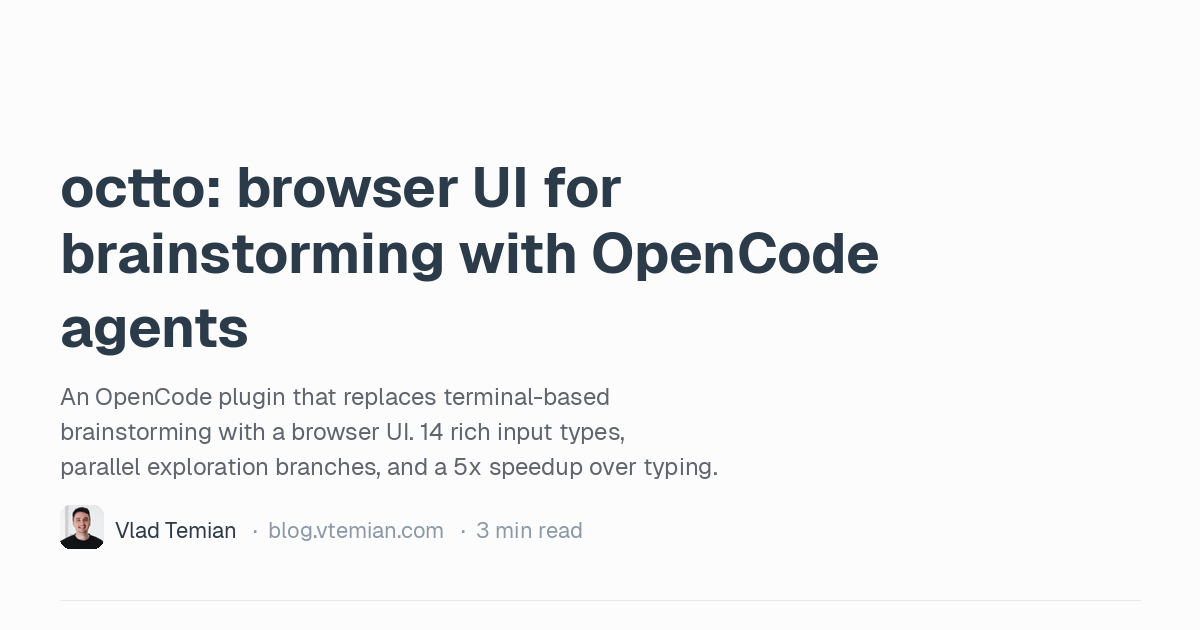
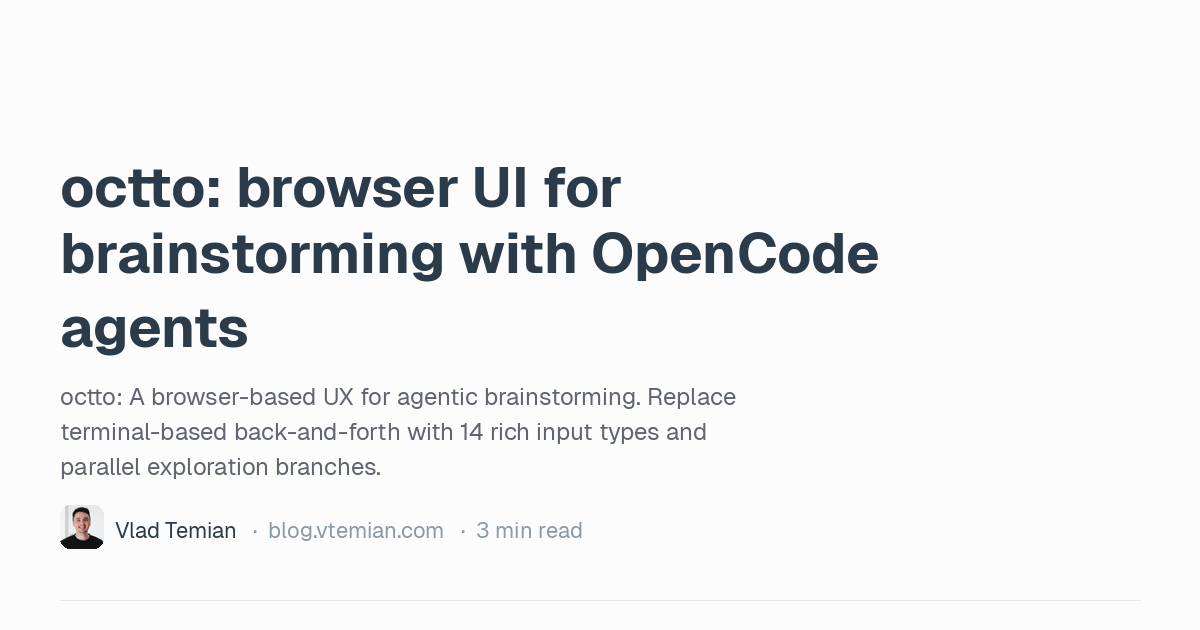
deploy: 51484bfcf742be81ee3e31f9625386bb4fda7fc4

Changed region(s): [[0.0308, 0.6032, 0.6167, 0.754]]

diff --git a/project/octto/index.html b/project/octto/index.html
@@ -1,6 +1,6 @@
-<!doctype html><html lang=en><head><script>localStorage.getItem("theme")==="dark"&&document.documentElement.classList.add("dark")</script><meta http-equiv=X-UA-Compatible content="IE=edge"><meta name=viewport content="width=device-width,minimum-scale=1"><link rel=preconnect href=https://cdn.jsdelivr.net crossorigin><link rel=stylesheet href=https://cdn.jsdelivr.net/npm/geist@1/dist/fonts/geist-sans/style.css><link rel=stylesheet href=https://cdn.jsdelivr.net/npm/geist@1/dist/fonts/geist-mono/style.css><link rel=stylesheet href=//cdnjs.cloudflare.com/ajax/libs/highlight.js/11.9.0/styles/nord.min.css><script src=//cdnjs.cloudflare.com/ajax/libs/highlight.js/11.9.0/highlight.min.js></script><script>hljs.highlightAll()</script><meta charset=utf-8><meta name=robots content="index,follow"><link rel=canonical href=https://blog.vtemian.com/project/octto/><link rel=icon type=image/svg+xml href=https://blog.vtemian.com/favicon.svg><link rel=apple-touch-icon href=https://blog.vtemian.com/favicon.svg><meta name=keywords content="octto,opencode,agentic programming,ai tools,developer tools,brainstorming,ui"><meta name=description content="An OpenCode plugin that replaces terminal-based brainstorming with a browser UI. 14 rich input types, parallel exploration branches, and a 5x speedup over typing."><meta property="og:url" content="https://blog.vtemian.com/project/octto/"><meta property="og:site_name" content="Vlad Temian - Centrist Tech Optimist"><meta property="og:title" content="octto: browser UI for brainstorming with OpenCode agents"><meta property="og:description" content="An OpenCode plugin that replaces terminal-based brainstorming with a browser UI. 14 rich input types, parallel exploration branches, and a 5x speedup over typing."><meta property="og:locale" content="en_US"><meta property="og:type" content="article"><meta property="article:published_time" content="2026-01-02T00:00:00+03:00"><meta property="article:modified_time" content="2026-01-02T00:00:00+03:00"><meta property="article:tag" content="Ai"><meta property="article:tag" content="Tools"><meta property="article:tag" content="Open-Source"><meta property="og:image" content="https://blog.vtemian.com/project/octto/og.png"><meta name=twitter:card content="summary_large_image"><meta name=twitter:title content="octto: browser UI for brainstorming with OpenCode agents"><meta name=twitter:description content="An OpenCode plugin that replaces terminal-based brainstorming with a browser UI. 14 rich input types, parallel exploration branches, and a 5x speedup over typing."><meta name=twitter:image content="https://blog.vtemian.com/project/octto/og.png"><script type=application/ld+json>{"@context":"https://schema.org","@type":"BlogPosting","mainEntityOfPage":{"@type":"WebPage","@id":"https:\/\/blog.vtemian.com\/project\/octto\/"},"headline":"octto: browser UI for brainstorming with OpenCode agents","description":"An OpenCode plugin that replaces terminal-based brainstorming with a browser UI. 14 rich input types, parallel exploration branches, and a 5x speedup over typing.","inLanguage":"en-US","author":{"@type":"Person","name":"Vlad Temian","url":"https:\/\/blog.vtemian.com\/","sameAs":["https://github.com/vtemian","https://linkedin.com/in/vtemian","https://x.com/vtemian"]},"publisher":{"@type":"Person","name":"Vlad Temian"},"datePublished":"2026-01-02T00:00:00\u002b03:00","dateModified":"2026-01-02T00:00:00\u002b03:00","url":"https:\/\/blog.vtemian.com\/project\/octto\/","wordCount":374,"timeRequired":"PT2M","keywords":["ai","tools","open-source"]}</script><script type=application/ld+json>{"@context":"https://schema.org","@type":"BreadcrumbList","itemListElement":[{"@type":"ListItem","position":1,"name":"Home","item":"https:\/\/blog.vtemian.com\/"},{"@type":"ListItem","position":2,"name":"Project","item":"https:\/\/blog.vtemian.com\/project/"},{"@type":"ListItem","position":3,"name":"octto: browser UI for brainstorming with OpenCode agents","item":"https:\/\/blog.vtemian.com\/project\/octto\/"}]}</script><title>octto: browser UI for brainstorming with OpenCode agents | Vlad Temian - Centrist Tech Optimist</title>
+<!doctype html><html lang=en><head><script>localStorage.getItem("theme")==="dark"&&document.documentElement.classList.add("dark")</script><meta http-equiv=X-UA-Compatible content="IE=edge"><meta name=viewport content="width=device-width,minimum-scale=1"><link rel=preconnect href=https://cdn.jsdelivr.net crossorigin><link rel=stylesheet href=https://cdn.jsdelivr.net/npm/geist@1/dist/fonts/geist-sans/style.css><link rel=stylesheet href=https://cdn.jsdelivr.net/npm/geist@1/dist/fonts/geist-mono/style.css><link rel=stylesheet href=//cdnjs.cloudflare.com/ajax/libs/highlight.js/11.9.0/styles/nord.min.css><script src=//cdnjs.cloudflare.com/ajax/libs/highlight.js/11.9.0/highlight.min.js></script><script>hljs.highlightAll()</script><meta charset=utf-8><meta name=robots content="index,follow"><link rel=canonical href=https://blog.vtemian.com/project/octto/><link rel=icon type=image/svg+xml href=https://blog.vtemian.com/favicon.svg><link rel=apple-touch-icon href=https://blog.vtemian.com/favicon.svg><meta name=keywords content="octto,opencode,agentic programming,ai ux,structured brainstorming,llm interface,human-in-the-loop,developer tools,ai gui"><meta name=description content="octto: A browser-based UX for agentic brainstorming. Replace terminal-based back-and-forth with 14 rich input types and parallel exploration branches."><meta property="og:url" content="https://blog.vtemian.com/project/octto/"><meta property="og:site_name" content="Vlad Temian - Centrist Tech Optimist"><meta property="og:title" content="octto: browser UI for brainstorming with OpenCode agents"><meta property="og:description" content="octto: A browser-based UX for agentic brainstorming. Replace terminal-based back-and-forth with 14 rich input types and parallel exploration branches."><meta property="og:locale" content="en_US"><meta property="og:type" content="article"><meta property="article:published_time" content="2026-01-02T00:00:00+03:00"><meta property="article:modified_time" content="2026-01-02T00:00:00+03:00"><meta property="article:tag" content="Ai"><meta property="article:tag" content="Tools"><meta property="article:tag" content="Open-Source"><meta property="article:tag" content="Agentic-Programming"><meta property="article:tag" content="Ux"><meta property="og:image" content="https://blog.vtemian.com/project/octto/og.png"><meta name=twitter:card content="summary_large_image"><meta name=twitter:title content="octto: browser UI for brainstorming with OpenCode agents"><meta name=twitter:description content="octto: A browser-based UX for agentic brainstorming. Replace terminal-based back-and-forth with 14 rich input types and parallel exploration branches."><meta name=twitter:image content="https://blog.vtemian.com/project/octto/og.png"><script type=application/ld+json>{"@context":"https://schema.org","@type":"BlogPosting","mainEntityOfPage":{"@type":"WebPage","@id":"https:\/\/blog.vtemian.com\/project\/octto\/"},"headline":"octto: browser UI for brainstorming with OpenCode agents","description":"octto: A browser-based UX for agentic brainstorming. Replace terminal-based back-and-forth with 14 rich input types and parallel exploration branches.","inLanguage":"en-US","author":{"@type":"Person","name":"Vlad Temian","url":"https:\/\/blog.vtemian.com\/","sameAs":["https://github.com/vtemian","https://linkedin.com/in/vtemian","https://x.com/vtemian"]},"publisher":{"@type":"Person","name":"Vlad Temian"},"datePublished":"2026-01-02T00:00:00\u002b03:00","dateModified":"2026-01-02T00:00:00\u002b03:00","url":"https:\/\/blog.vtemian.com\/project\/octto\/","wordCount":452,"timeRequired":"PT2M","keywords":["ai","tools","open-source","agentic-programming","ux"]}</script><script type=application/ld+json>{"@context":"https://schema.org","@type":"BreadcrumbList","itemListElement":[{"@type":"ListItem","position":1,"name":"Home","item":"https:\/\/blog.vtemian.com\/"},{"@type":"ListItem","position":2,"name":"Project","item":"https:\/\/blog.vtemian.com\/project/"},{"@type":"ListItem","position":3,"name":"octto: browser UI for brainstorming with OpenCode agents","item":"https:\/\/blog.vtemian.com\/project\/octto\/"}]}</script><title>octto: browser UI for brainstorming with OpenCode agents | Vlad Temian - Centrist Tech Optimist</title>
 <link rel=stylesheet href=https://blog.vtemian.com/stylesheets/main.min.a3dd6e53cb8317669f7120e254ee74bc7ddd98748ed802cc4adc882876a27160.css media=screen><meta name=google-site-verification content="2qk_e0y84NNSVpaorKgeNURYF9Ni3UyJvPq9GZdGEgs"></head><body class="bg-bg font-sans text-sm leading-relaxed text-ink antialiased"><div class="mx-auto flex max-w-2xl flex-col gap-12 px-5 py-12"><a href=https://blog.vtemian.com/ class="font-mono text-xs tracking-wide text-muted">Back</a><article class="flex flex-col gap-12"><header class="flex flex-col gap-2"><h1 class=text-2xl>octto: browser UI for brainstorming with OpenCode agents</h1><p class="text-xs text-link">January 2026</p></header><div class="flex flex-col gap-4"><video autoplay loop muted playsinline width=100% style=margin-bottom:2rem>
-<source src=demo.mp4 type=video/mp4></video><p>Brainstorming with AI agents in a terminal is slow and painful. You type a paragraph, the agent asks a question, you type another paragraph, it asks another question. Ten minutes of back-and-forth just to agree on an approach. Most of that time is spent typing things that could have been a single click.</p><p><strong><a href=https://github.com/vtemian/octto>octto</a></strong> opens a browser window instead.</p><h2 id=stop-typing-start-clicking>Stop Typing, Start Clicking</h2><p>When you describe an idea to the agent, octto opens a browser UI that presents structured, visual questions. Instead of typing &ldquo;I think option B is better because&mldr;&rdquo;, you click a radio button. Instead of describing priority order in prose, you drag items into a ranked list. Instead of explaining a code preference, you review a side-by-side diff and click approve.</p><p>14 input types replace free-form text: radio buttons, checkboxes, sliders, drag-to-rank, star ratings, thumbs up/down, option cards with pros and cons, side-by-side code diffs, syntax-highlighted code editors, text fields, image uploads, and file pickers.</p><h2 id=parallel-exploration>Parallel Exploration</h2><p>The real speedup comes from parallel branching. Instead of exploring one question at a time, octto splits your request into 2-4 exploration branches. All initial questions appear at once. You answer them in any order. Some branches finish in 2 questions, others need 4. It&rsquo;s a tree-structured exploration, not a linear conversation.</p><p>Follow-up questions appear dynamically as you answer. A progress indicator shows remaining questions. Completed answers stay visible for context.</p><h2 id=three-agent-architecture>Three-Agent Architecture</h2><p>Three specialized agents orchestrate each session:</p><table><thead><tr><th>Agent</th><th>Role</th></tr></thead><tbody><tr><td><strong>bootstrapper</strong></td><td>Splits your request into 2-4 exploration branches</td></tr><tr><td><strong>probe</strong></td><td>Evaluates each branch after you answer: needs more questions, or done?</td></tr><tr><td><strong>octto</strong></td><td>Orchestrates the overall session lifecycle</td></tr></tbody></table><p>The bootstrapper decomposes. The probe adapts. The octto agent manages the whole thing. Once all branches converge, a final plan is rendered for review, approval, and saved to <code>docs/plans/</code> in your project.</p><h2 id=configuration>Configuration</h2><p>Simple setup: one line in your OpenCode config. You can customize the port, agent models, and inject project-specific instructions via &ldquo;fragments&rdquo;. Fragments can be global or per-project, so you can tell the brainstorming agents &ldquo;this project uses React, focus on component patterns&rdquo; without repeating it every session.</p><p><strong><a href=https://github.com/vtemian/octto>Source on GitHub</a></strong></p><p>octto handles the brainstorming phase. For the full structured workflow — brainstorm, plan, and parallel implementation with review — see <a href=https://blog.vtemian.com/project/micode/>micode</a>.</p><p>Stay curious ☕</p></div></article><footer class="flex justify-between text-xs text-link"><span>&copy; 2026 <a href=https://github.com/vtemian>Vlad Temian</a></span>
+<source src=demo.mp4 type=video/mp4></video><p>Brainstorming with AI agents in a terminal is slow and painful. You type a paragraph, the agent asks a question, you type another paragraph&mldr; it&rsquo;s a 10-minute back-and-forth just to agree on an approach. Most of that time is spent in &ldquo;prose-churn&rdquo;—typing things that should have been a single click.</p><p><strong><a href=https://github.com/vtemian/octto>octto</a></strong> turns those 10 minutes of typing into 2 minutes of clicking.</p><h2 id=agentic-ui-why-chat-is-a-bottleneck>Agentic UI: Why Chat is a Bottleneck</h2><p>We&rsquo;ve been conditioned to think &ldquo;AI = Chatbox,&rdquo; but prose is one of the most inefficient interfaces for structured decision-making. Chat is linear, ambiguous, and requires constant re-typing.</p><p>I built <strong>octto</strong> on a different philosophy: <strong>Agentic UI</strong>. The agent shouldn&rsquo;t just talk to you; it should present you with the most efficient interface for the task at hand.</p><ul><li><strong>Beyond Prose</strong>: Instead of &ldquo;Option B is better because&mldr;&rdquo;, just click a button.</li><li><strong>Parallel Exploration</strong>: Chat is serial. octto is tree-structured. It splits your request into 2-4 branches simultaneously.</li><li><strong>Visual Synthesis</strong>: Side-by-side diffs, drag-and-drop rankings, and rich sliders replace descriptive text.</li></ul><h2 id=14-rich-input-types>14 Rich Input Types</h2><p>octto replaces free-form text with a library of 14 structured inputs designed for fast &ldquo;Human-in-the-Loop&rdquo; decisions:</p><ul><li><strong>Decision Controls</strong>: Radio buttons, checkboxes, and thumbs up/down for rapid approval.</li><li><strong>Structured Ranking</strong>: Drag items into a ranked list to set priorities.</li><li><strong>Code Review</strong>: Side-by-side diffs and syntax-highlighted editors.</li><li><strong>Rich Media</strong>: Image uploads and file pickers for direct context.</li><li><strong>Dynamic Pros/Cons</strong>: Option cards that summarize trade-offs visually.</li></ul><p>&mldr;</p><h2 id=parallel-exploration>Parallel Exploration</h2><p>The real speedup comes from parallel branching. Instead of exploring one question at a time, octto splits your request into 2-4 exploration branches. All initial questions appear at once. You answer them in any order. Some branches finish in 2 questions, others need 4. It&rsquo;s a tree-structured exploration, not a linear conversation.</p><p>Follow-up questions appear dynamically as you answer. A progress indicator shows remaining questions. Completed answers stay visible for context.</p><h2 id=three-agent-architecture>Three-Agent Architecture</h2><p>Three specialized agents orchestrate each session:</p><table><thead><tr><th>Agent</th><th>Role</th></tr></thead><tbody><tr><td><strong>bootstrapper</strong></td><td>Splits your request into 2-4 exploration branches</td></tr><tr><td><strong>probe</strong></td><td>Evaluates each branch after you answer: needs more questions, or done?</td></tr><tr><td><strong>octto</strong></td><td>Orchestrates the overall session lifecycle</td></tr></tbody></table><p>The bootstrapper decomposes. The probe adapts. The octto agent manages the whole thing. Once all branches converge, a final plan is rendered for review, approval, and saved to <code>docs/plans/</code> in your project.</p><h2 id=configuration>Configuration</h2><p>Simple setup: one line in your OpenCode config. You can customize the port, agent models, and inject project-specific instructions via &ldquo;fragments&rdquo;. Fragments can be global or per-project, so you can tell the brainstorming agents &ldquo;this project uses React, focus on component patterns&rdquo; without repeating it every session.</p><p><strong><a href=https://github.com/vtemian/octto>Source on GitHub</a></strong></p><p>octto handles the brainstorming phase. For the full structured workflow — brainstorm, plan, and parallel implementation with review — see <a href=https://blog.vtemian.com/project/micode/>micode</a>.</p><p>Stay curious ☕</p></div></article><footer class="flex justify-between text-xs text-link"><span>&copy; 2026 <a href=https://github.com/vtemian>Vlad Temian</a></span>
 <span>Order within chaos.</span></footer></div><script type=module>
     import mermaid from 'https://cdn.jsdelivr.net/npm/mermaid@11/dist/mermaid.esm.min.mjs';
     mermaid.initialize({ startOnLoad: false, theme: 'neutral' });

diff --git a/tags/ux/index.html b/tags/ux/index.html
@@ -1,0 +1,25 @@
+<!doctype html><html lang=en><head><script>localStorage.getItem("theme")==="dark"&&document.documentElement.classList.add("dark")</script><meta http-equiv=X-UA-Compatible content="IE=edge"><meta name=viewport content="width=device-width,minimum-scale=1"><link rel=preconnect href=https://cdn.jsdelivr.net crossorigin><link rel=stylesheet href=https://cdn.jsdelivr.net/npm/geist@1/dist/fonts/geist-sans/style.css><link rel=stylesheet href=https://cdn.jsdelivr.net/npm/geist@1/dist/fonts/geist-mono/style.css><link rel=stylesheet href=//cdnjs.cloudflare.com/ajax/libs/highlight.js/11.9.0/styles/nord.min.css><script src=//cdnjs.cloudflare.com/ajax/libs/highlight.js/11.9.0/highlight.min.js></script><script>hljs.highlightAll()</script><meta charset=utf-8><meta name=robots content="index,follow"><link rel=canonical href=https://blog.vtemian.com/tags/ux/><link rel=icon type=image/svg+xml href=https://blog.vtemian.com/favicon.svg><link rel=apple-touch-icon href=https://blog.vtemian.com/favicon.svg><meta name=keywords content="vtemian,agentic programming,ai tools,claude code,developer tools,open source"><meta name=description content="I build agentic programming tools. 15+ years of systems infrastructure experience, now focused on making AI agents reliable and accessible for developers. Former CTO, open-source builder, community organizer at agentic.tm."><meta property="og:url" content="https://blog.vtemian.com/tags/ux/"><meta property="og:site_name" content="Vlad Temian - Centrist Tech Optimist"><meta property="og:title" content="Ux"><meta property="og:description" content="I build agentic programming tools. 15+ years of systems infrastructure experience, now focused on making AI agents reliable and accessible for developers. Former CTO, open-source builder, community organizer at agentic.tm."><meta property="og:locale" content="en_US"><meta property="og:type" content="website"><meta name=twitter:card content="summary_large_image"><meta name=twitter:title content="Ux"><meta name=twitter:description content="I build agentic programming tools. 15+ years of systems infrastructure experience, now focused on making AI agents reliable and accessible for developers. Former CTO, open-source builder, community organizer at agentic.tm."><script type=application/ld+json>{"@context":"https://schema.org","@type":"BlogPosting","mainEntityOfPage":{"@type":"WebPage","@id":"https:\/\/blog.vtemian.com\/tags\/ux\/"},"headline":"Ux","description":"I build agentic programming tools. 15\u002b years of systems infrastructure experience, now focused on making AI agents reliable and accessible for developers. Former CTO, open-source builder, community organizer at agentic.tm.","inLanguage":"en-US","author":{"@type":"Person","name":"Vlad Temian","url":"https:\/\/blog.vtemian.com\/","sameAs":["https://github.com/vtemian","https://linkedin.com/in/vtemian","https://x.com/vtemian"]},"publisher":{"@type":"Person","name":"Vlad Temian"},"datePublished":"2026-01-02T00:00:00\u002b03:00","dateModified":"2026-01-02T00:00:00\u002b03:00","url":"https:\/\/blog.vtemian.com\/tags\/ux\/","wordCount":0,"timeRequired":"PT1M","keywords":[]}</script><script type=application/ld+json>{"@context":"https://schema.org","@type":"BreadcrumbList","itemListElement":[{"@type":"ListItem","position":1,"name":"Home","item":"https:\/\/blog.vtemian.com\/"}]}</script><title>Ux | Vlad Temian - Centrist Tech Optimist</title>
+<link rel=stylesheet href=https://blog.vtemian.com/stylesheets/main.min.a3dd6e53cb8317669f7120e254ee74bc7ddd98748ed802cc4adc882876a27160.css media=screen><meta name=google-site-verification content="2qk_e0y84NNSVpaorKgeNURYF9Ni3UyJvPq9GZdGEgs"></head><body class="bg-bg font-sans text-sm leading-relaxed text-ink antialiased"><div class="mx-auto flex max-w-xl flex-col gap-12 px-5 py-12"><svg width="0" height="0" class="absolute"><defs><clipPath id="squircle" clipPathUnits="objectBoundingBox"><path d="M0 .5C-.001.14.14.0.5.0s.501.14.5.5C1.001.86.86 1 .5 1S-.001.86.0.5z"/></clipPath></defs></svg><section class="flex items-center gap-4"><img src=https://qed.builders/images/team/vlad-temian@2x.png alt="Vlad Temian" class="h-14 w-14" style=clip-path:url(#squircle)><div class=flex-1><p>Vlad Temian</p><p>Centrist Tech Optimist</p></div><button id=theme-toggle aria-label="Toggle dark mode" class="relative flex h-8 w-8 cursor-pointer items-center justify-center text-muted transition-colors duration-200 hover:text-ink">
+<svg id="icon-sun" class="absolute h-5 w-5 transition-all duration-300 ease-out" viewBox="0 0 24 24" fill="none" stroke="currentcolor" stroke-width="1.5" stroke-linecap="round" stroke-linejoin="round"><circle cx="12" cy="12" r="5"/><line x1="12" y1="1" x2="12" y2="3"/><line x1="12" y1="21" x2="12" y2="23"/><line x1="4.22" y1="4.22" x2="5.64" y2="5.64"/><line x1="18.36" y1="18.36" x2="19.78" y2="19.78"/><line x1="1" y1="12" x2="3" y2="12"/><line x1="21" y1="12" x2="23" y2="12"/><line x1="4.22" y1="19.78" x2="5.64" y2="18.36"/><line x1="18.36" y1="5.64" x2="19.78" y2="4.22"/></svg>
+<svg id="icon-moon" class="absolute h-5 w-5 transition-all duration-300 ease-out" viewBox="0 0 24 24" fill="none" stroke="currentcolor" stroke-width="1.5" stroke-linecap="round" stroke-linejoin="round"><path d="M21 12.79A9 9 0 1111.21 3 7 7 0 0021 12.79z"/></svg>
+</button>
+<script>(()=>{const s=document.getElementById("theme-toggle"),e=document.getElementById("icon-sun"),t=document.getElementById("icon-moon"),n=n=>{e.style.opacity=n?"1":"0",e.style.transform=n?"rotate(0deg)":"rotate(-90deg)",t.style.opacity=n?"0":"1",t.style.transform=n?"rotate(90deg)":"rotate(0deg)"};n(document.documentElement.classList.contains("dark")),s.addEventListener("click",()=>{const e=document.documentElement.classList.toggle("dark");localStorage.setItem("theme",e?"dark":"light"),n(e)})})()</script></section><section><h2 class="mb-4 font-mono text-xs tracking-wide text-muted">About</h2><p>I build agentic programming tools.</p><br><p>15+ years helping startups scale production infrastructure.</p><p>Former CTO of <a href=https://www.linkedin.com/company/qed-builders-software/ target=_blank rel="noopener noreferrer" class="border-b border-b-link-border pb-0.5 text-link transition-all duration-200 ease-out hover:border-b-ink hover:text-ink">qed.builders</a> (acquired by <a href=https://www.linkedin.com/company/thesandbox-game/ target=_blank rel="noopener noreferrer" class="border-b border-b-link-border pb-0.5 text-link transition-all duration-200 ease-out hover:border-b-ink hover:text-ink">The Sandbox</a>). Organizer at <a href=https://agentic.tm target=_blank rel="noopener noreferrer" class="border-b border-b-link-border pb-0.5 text-link transition-all duration-200 ease-out hover:border-b-ink hover:text-ink">agentic.tm</a>. <a href=https://cursor.com target=_blank rel="noopener noreferrer" class="border-b border-b-link-border pb-0.5 text-link transition-all duration-200 ease-out hover:border-b-ink hover:text-ink">Cursor</a> ambassador.</p><br><p>I believe everyone should be able to ship ideas.</p></section><section><h2 class="mb-4 font-mono text-xs tracking-wide text-muted">Writing</h2><div class="relative flex flex-col gap-1" id=writing-list><div id=writing-highlight class="pointer-events-none absolute rounded-lg bg-surface opacity-0 transition-all duration-150"></div><a href=https://blog.vtemian.com/post/mcp-is-great-for-tools-terrible-for-agents/ class="relative -mx-3 flex items-center justify-between gap-4 rounded-lg px-3 py-2 transition-colors duration-150"><div class=min-w-0><h3 class=truncate>MCP Is Great for Tools. Terrible for Agents.</h3><p class="text-xs text-link">February 2026</p></div><span class="shrink-0 rounded border border-border px-2 py-0.5 text-xs capitalize text-muted">post</span>
+</a><a href=https://blog.vtemian.com/post/vibe-infer/ class="relative -mx-3 flex items-center justify-between gap-4 rounded-lg px-3 py-2 transition-colors duration-150"><div class=min-w-0><h3 class=truncate>vibe-infer: Learning GPU Programming with Claude Code</h3><p class="text-xs text-link">February 2026</p></div><span class="shrink-0 rounded border border-border px-2 py-0.5 text-xs capitalize text-muted">post</span>
+</a><a href=https://blog.vtemian.com/project/claudebin/ class="relative -mx-3 flex items-center justify-between gap-4 rounded-lg px-3 py-2 transition-colors duration-150"><div class=min-w-0><h3 class=truncate>claudebin: share and embed Claude Code sessions</h3><p class="text-xs text-link">February 2026</p></div><span class="shrink-0 rounded border border-border px-2 py-0.5 text-xs capitalize text-muted">project</span>
+</a><a href=https://blog.vtemian.com/talk/indie-hacking-update/ class="relative -mx-3 flex items-center justify-between gap-4 rounded-lg px-3 py-2 transition-colors duration-150"><div class=min-w-0><h3 class=truncate>Riding Existing Waves: My Indie Hacking Journey with Sisif.ai</h3><p class="text-xs text-link">January 2026</p></div><span class="shrink-0 rounded border border-border px-2 py-0.5 text-xs capitalize text-muted">talk</span>
+</a><a href=https://blog.vtemian.com/project/opencode-reskin/ class="relative -mx-3 flex items-center justify-between gap-4 rounded-lg px-3 py-2 transition-colors duration-150"><div class=min-w-0><h3 class=truncate>opencode-reskin: multi-agent CSS analysis for OpenCode</h3><p class="text-xs text-link">January 2026</p></div><span class="shrink-0 rounded border border-border px-2 py-0.5 text-xs capitalize text-muted">project</span>
+</a><a href=https://blog.vtemian.com/project/octto/ class="relative -mx-3 flex items-center justify-between gap-4 rounded-lg px-3 py-2 transition-colors duration-150"><div class=min-w-0><h3 class=truncate>octto: browser UI for brainstorming with OpenCode agents</h3><p class="text-xs text-link">January 2026</p></div><span class="shrink-0 rounded border border-border px-2 py-0.5 text-xs capitalize text-muted">project</span>
+</a><a href=https://blog.vtemian.com/project/micode/ class="relative -mx-3 flex items-center justify-between gap-4 rounded-lg px-3 py-2 transition-colors duration-150"><div class=min-w-0><h3 class=truncate>micode: context harnessing, planning and parallel execution for OpenCode</h3><p class="text-xs text-link">December 2025</p></div><span class="shrink-0 rounded border border-border px-2 py-0.5 text-xs capitalize text-muted">project</span>
+</a><a href=https://blog.vtemian.com/talk/technical-debt-is-cheap/ class="relative -mx-3 flex items-center justify-between gap-4 rounded-lg px-3 py-2 transition-colors duration-150"><div class=min-w-0><h3 class=truncate>Technical Debt is Cheap</h3><p class="text-xs text-link">October 2025</p></div><span class="shrink-0 rounded border border-border px-2 py-0.5 text-xs capitalize text-muted">talk</span>
+</a><a href=https://blog.vtemian.com/project/claude-notes/ class="relative -mx-3 flex items-center justify-between gap-4 rounded-lg px-3 py-2 transition-colors duration-150"><div class=min-w-0><h3 class=truncate>claude-notes: claude code sessions to html</h3><p class="text-xs text-link">June 2025</p></div><span class="shrink-0 rounded border border-border px-2 py-0.5 text-xs capitalize text-muted">project</span>
+</a><a href=https://blog.vtemian.com/post/parallel-transaction-execution-in-blockchains/ class="relative -mx-3 flex items-center justify-between gap-4 rounded-lg px-3 py-2 transition-colors duration-150"><div class=min-w-0><h3 class=truncate>Parallel Transaction Execution in Blockchains</h3><p class="text-xs text-link">October 2024</p></div><span class="shrink-0 rounded border border-border px-2 py-0.5 text-xs capitalize text-muted">post</span>
+</a><a href=https://blog.vtemian.com/post/healthy-python-codebase/ class="relative -mx-3 flex items-center justify-between gap-4 rounded-lg px-3 py-2 transition-colors duration-150"><div class=min-w-0><h3 class=truncate>Healthy Python Codebase</h3><p class="text-xs text-link">September 2020</p></div><span class="shrink-0 rounded border border-border px-2 py-0.5 text-xs capitalize text-muted">post</span>
+</a><a href=https://blog.vtemian.com/post/serverless-hosting-platform/ class="relative -mx-3 flex items-center justify-between gap-4 rounded-lg px-3 py-2 transition-colors duration-150"><div class=min-w-0><h3 class=truncate>Building a serverless hosting platform</h3><p class="text-xs text-link">May 2020</p></div><span class="shrink-0 rounded border border-border px-2 py-0.5 text-xs capitalize text-muted">post</span>
+</a><a href=https://blog.vtemian.com/post/multiple-inheritance/ class="relative -mx-3 flex items-center justify-between gap-4 rounded-lg px-3 py-2 transition-colors duration-150"><div class=min-w-0><h3 class=truncate>Python Multiple Inheritance</h3><p class="text-xs text-link">May 2020</p></div><span class="shrink-0 rounded border border-border px-2 py-0.5 text-xs capitalize text-muted">post</span>
+</a><a href=https://blog.vtemian.com/post/interviews/ class="relative -mx-3 flex items-center justify-between gap-4 rounded-lg px-3 py-2 transition-colors duration-150"><div class=min-w-0><h3 class=truncate>Interviews</h3><p class="text-xs text-link">January 2019</p></div><span class="shrink-0 rounded border border-border px-2 py-0.5 text-xs capitalize text-muted">post</span>
+</a><a href=https://blog.vtemian.com/post/2019/ class="relative -mx-3 flex items-center justify-between gap-4 rounded-lg px-3 py-2 transition-colors duration-150"><div class=min-w-0><h3 class=truncate>2019</h3><p class="text-xs text-link">January 2019</p></div><span class="shrink-0 rounded border border-border px-2 py-0.5 text-xs capitalize text-muted">post</span></a></div><script>(()=>{const t=document.getElementById("writing-list"),e=document.getElementById("writing-highlight"),n=n=>{const{top:o,left:i,width:a,height:r}=n.getBoundingClientRect(),s=t.getBoundingClientRect();Object.assign(e.style,{top:`${o-s.top}px`,left:`${i-s.left}px`,width:`${a}px`,height:`${r}px`}),e.classList.remove("opacity-0"),e.classList.add("opacity-100")},s=()=>{e.classList.remove("opacity-100"),e.classList.add("opacity-0")};t.querySelectorAll("a").forEach(e=>{e.addEventListener("mouseenter",()=>n(e))}),t.addEventListener("mouseleave",s)})()</script></section><section><h2 class="mb-4 font-mono text-xs tracking-wide text-muted">Contact</h2><div class="flex flex-col gap-2"><div class="grid grid-cols-12 gap-2"><span class="col-span-4 text-muted">Email</span>
+<a href=mailto:me@vtemian.com class=col-span-8>me@vtemian.com</a></div><div class="grid grid-cols-12 gap-2"><span class="col-span-4 text-muted">LinkedIn</span>
+<a href=https://www.linkedin.com/in/vtemian class=col-span-8>/in/vtemian</a></div><div class="grid grid-cols-12 gap-2"><span class="col-span-4 text-muted">GitHub</span>
+<a href=https://github.com/vtemian class=col-span-8>vtemian</a></div><div class="grid grid-cols-12 gap-2"><span class="col-span-4 text-muted">X</span>
+<a href=https://x.com/vtemian class=col-span-8>@vtemian</a></div></div></section><footer class="flex justify-between text-xs text-link"><span>&copy; 2026 <a href=https://github.com/vtemian>Vlad Temian</a></span>
+<span>Order within chaos.</span></footer></div></body></html>

diff --git a/project/octto/index.md b/project/octto/index.md
@@ -3,8 +3,8 @@ title: "octto: browser UI for brainstorming with OpenCode agents"
 date: 2026-01-02
 author: Vlad Temian
 url: https://blog.vtemian.com/project/octto/
-description: "An OpenCode plugin that replaces terminal-based brainstorming with a browser UI. 14 rich input types, parallel exploration branches, and a 5x speedup over typing."
-tags: [ai, tools, open-source]
+description: "octto: A browser-based UX for agentic brainstorming. Replace terminal-based back-and-forth with 14 rich input types and parallel exploration branches."
+tags: [ai, tools, open-source, agentic-programming, ux]
 ---
 
 # octto: browser UI for brainstorming with OpenCode agents
@@ -14,16 +14,29 @@ tags: [ai, tools, open-source]
   <source src="demo.mp4" type="video/mp4">
 </video>
 
-Brainstorming with AI agents in a terminal is slow and painful. You type a paragraph, the agent asks a question, you type another paragraph, it asks another question. Ten minutes of back-and-forth just to agree on an approach. Most of that time is spent typing things that could have been a single click.
+Brainstorming with AI agents in a terminal is slow and painful. You type a paragraph, the agent asks a question, you type another paragraph... it's a 10-minute back-and-forth just to agree on an approach. Most of that time is spent in "prose-churn"—typing things that should have been a single click.
 
-**[octto](https://github.com/vtemian/octto)** opens a browser window instead.
+**[octto](https://github.com/vtemian/octto)** turns those 10 minutes of typing into 2 minutes of clicking.
 
-## Stop Typing, Start Clicking
+## Agentic UI: Why Chat is a Bottleneck
 
-When you describe an idea to the agent, octto opens a browser UI that presents structured, visual questions. Instead of typing "I think option B is better because...", you click a radio button. Instead of describing priority order in prose, you drag items into a ranked list. Instead of explaining a code preference, you review a side-by-side diff and click approve.
+We've been conditioned to think "AI = Chatbox," but prose is one of the most inefficient interfaces for structured decision-making. Chat is linear, ambiguous, and requires constant re-typing. 
 
-14 input types replace free-form text: radio buttons, checkboxes, sliders, drag-to-rank, star ratings, thumbs up/down, option cards with pros and cons, side-by-side code diffs, syntax-highlighted code editors, text fields, image uploads, and file pickers.
+I built **octto** on a different philosophy: **Agentic UI**. The agent shouldn't just talk to you; it should present you with the most efficient interface for the task at hand. 
+- **Beyond Prose**: Instead of "Option B is better because...", just click a button.
+- **Parallel Exploration**: Chat is serial. octto is tree-structured. It splits your request into 2-4 branches simultaneously.
+- **Visual Synthesis**: Side-by-side diffs, drag-and-drop rankings, and rich sliders replace descriptive text.
 
+## 14 Rich Input Types
+
+octto replaces free-form text with a library of 14 structured inputs designed for fast "Human-in-the-Loop" decisions:
+- **Decision Controls**: Radio buttons, checkboxes, and thumbs up/down for rapid approval.
+- **Structured Ranking**: Drag items into a ranked list to set priorities.
+- **Code Review**: Side-by-side diffs and syntax-highlighted editors.
+- **Rich Media**: Image uploads and file pickers for direct context.
+- **Dynamic Pros/Cons**: Option cards that summarize trade-offs visually.
+
+...
 ## Parallel Exploration
 
 The real speedup comes from parallel branching. Instead of exploring one question at a time, octto splits your request into 2-4 exploration branches. All initial questions appear at once. You answer them in any order. Some branches finish in 2 questions, others need 4. It's a tree-structured exploration, not a linear conversation.
